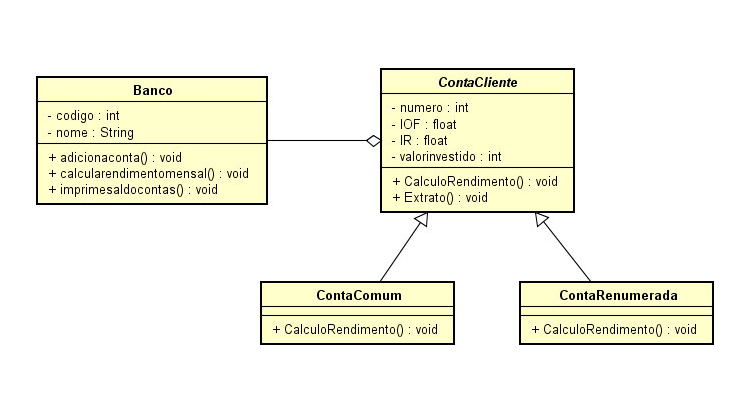
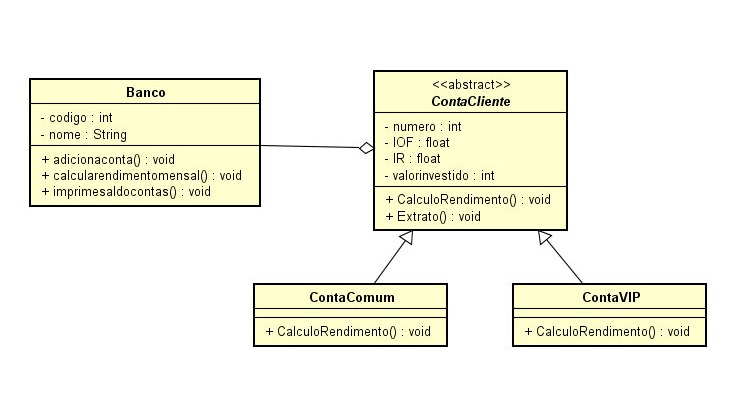
Exemplo de Classe Abstrata

Changed region(s): [[0.0312, 0.1453, 0.7812, 0.6392], [0.6875, 0.6392, 0.9688, 0.8426], [0.3438, 0.6392, 0.625, 0.8426]]

diff --git a/Teste.py b/Teste.py
@@ -8,13 +8,16 @@ IR = 0.1
 taxarendimento = 0.05
 
 banco_1 = Banco(2023, "PagBank")
-conta_cliente_1 = ContaCliente(1, IOF, IR, 1000, taxarendimento)
-conta_comum_1 = ContaComum(2, IOF, IR, 2000, taxarendimento)
-conta_remunerada_1 = ContaRemunerada(3, IOF, IR, 2000, taxarendimento)
 
-banco_1.adicionar_conta(conta_cliente_1)
-banco_1.adicionar_conta(conta_comum_1)
-banco_1.adicionar_conta(conta_remunerada_1)
+#* Classe abstrata não pode ser instanciada
+# cc1 = ContaCliente(1, IOF, IR, 1000, taxarendimento)
+
+cc2 = ContaComum(1, IOF, IR, 2000, taxarendimento)
+cr1 = ContaRemunerada(1, IOF, IR, 2000, taxarendimento)
+
+banco_1.adicionar_conta(cc2)
+banco_1.adicionar_conta(cr1)
 
 banco_1.calcular_rendimento_mensal()
+
 banco_1.imprime_saldo_contas()

diff --git a/ContaCliente.py b/ContaCliente.py
@@ -1,4 +1,6 @@
-class ContaCliente:
+from abc import ABC, abstractmethod
+
+class ContaCliente(ABC):
     def __init__(self, numero, iof, ir, valor_investido, taxarendimento):
         self.numero = numero
         self.iof = iof
@@ -7,9 +9,9 @@ class ContaCliente:
         self.taxarendimento = taxarendimento
         self.tipo_conta = 'cliente'
 
+    @abstractmethod
     def CalculoRendimento(self):
-        self.valor_investido += (self.valor_investido * self.taxarendimento)
-        self.valor_investido -= (self.valor_investido * (self.iof + self.ir))
+        pass
 
     def Extrato(self):
         print(f"O saldo atual da conta {self.tipo_conta} nº {self.numero} é {self.valor_investido:.2f}")
